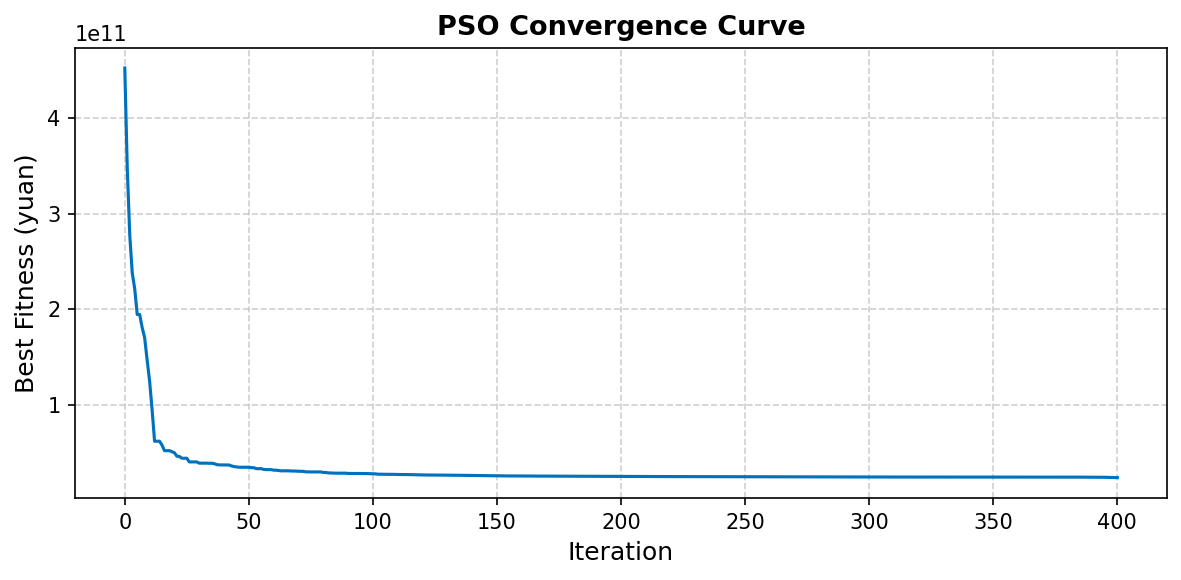
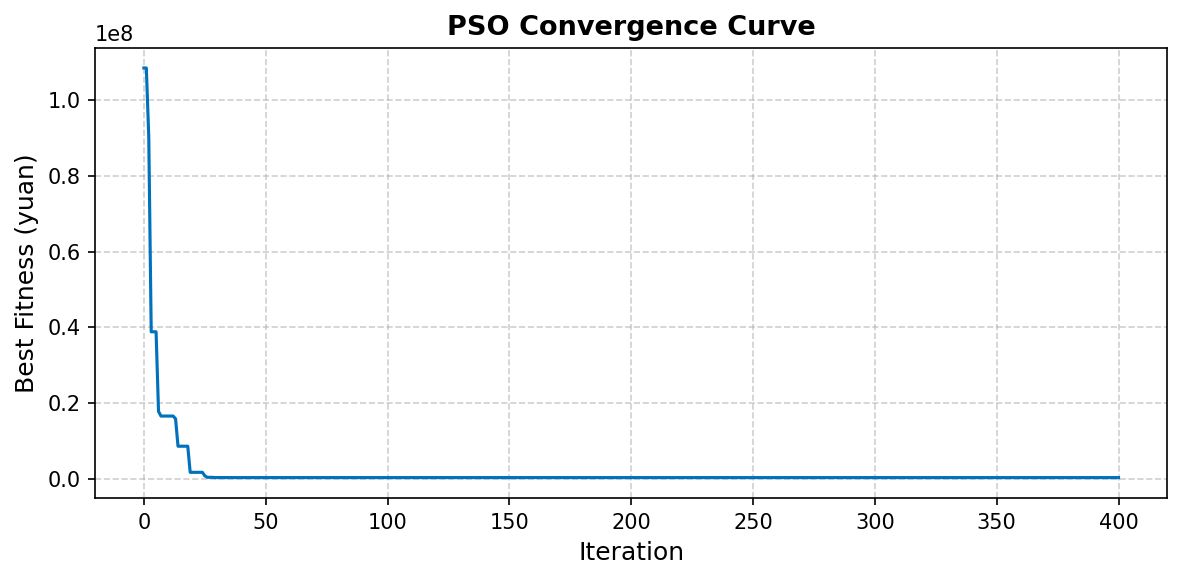
fix: PSO now matches MILP by fixing balance repair and adding feasibility-guided warm start
Agent-Logs-Url: https://github.com/zhouwenqing121-jpg/dianlirengong/sessions/00c5c149-e882-40f2-b688-72ed0c0e99e6

diff --git a/realistic_dispatch_simulator.py b/realistic_dispatch_simulator.py
@@ -110,39 +110,43 @@ WIND_OM_PRICE       = 18.0   # 风电运维单价 (元/MWh)
 CURTAILMENT_PRICE   = 300.0  # 弃风惩罚单价 (元/MWh)
 WIND_W2_RATIO       = 0.5    # W2 最大可用容量占 P_WY 的比例
 
-# 惩罚系数按约束重要性分层：
-#   PENALTY_BALANCE(1e8) > PENALTY_RAMP(1e7) > PENALTY_FLOW(1e5)
-# 功率平衡是硬约束（违反会使潮流无解），优先级最高；
-# 爬坡约束影响运行安全，次之；支路越限属于软约束，惩罚较低。
-PENALTY_BALANCE  = 1e8   # 全网功率不平衡惩罚系数（硬约束）
-PENALTY_RAMP     = 1e7   # 爬坡越限惩罚系数（安全约束）
-PENALTY_FLOW     = 1e5   # 支路潮流越限惩罚系数（软约束）
-FLOW_LIMIT       = 600.0 # 支路潮流上限 (MW)
+# 惩罚系数
+# G1 为平衡节点（与MATLAB中的松弛母线对应），由功率平衡方程直接推算；
+# PSO 每步迭代后执行 G2 修复，保证 G1 始终在机组出力范围内，
+# 因此 fitness 中无需对 G1 越界施加惩罚。
+# 爬坡约束和支路越限用惩罚处理。
+PENALTY_RAMP = 1e7   # 爬坡越限惩罚系数
+PENALTY_FLOW = 1e5   # 支路潮流越限惩罚系数（软约束）
+FLOW_LIMIT   = 600.0 # 支路潮流上限 (MW)
 
-# 预计算各时刻的上下界向量（避免循环内重复创建）
-_lb = np.empty(4 * T)
-_ub = np.empty(4 * T)
+# 决策变量布局: [P_G2(0..T-1), P_W1(0..T-1), P_W2(0..T-1)]，共 3*T = 72 个变量。
+# G1 不作为决策变量，而是由每个时刻的功率平衡方程推算：
+#   P_G1[t] = PLoad[t] - P_G2[t] - P_W1[t] - P_W2[t]
+# 这与MATLAB模型中 Bus 1 为松弛母线（取剩余功率）的设定完全一致。
+_lb = np.empty(3 * T)
+_ub = np.empty(3 * T)
 for _t in range(T):
-    _lb[_t]          = P_GMIN[0]
-    _ub[_t]          = P_GMAX[0]
-    _lb[T   + _t]    = P_GMIN[1]
-    _ub[T   + _t]    = P_GMAX[1]
-    _lb[2*T + _t]    = 0.0
-    _ub[2*T + _t]    = P_WY[_t]
-    _lb[3*T + _t]    = 0.0
-    _ub[3*T + _t]    = P_WY[_t] * WIND_W2_RATIO
+    _lb[_t]          = P_GMIN[1]              # P_G2 下限
+    _ub[_t]          = P_GMAX[1]              # P_G2 上限
+    _lb[T   + _t]    = 0.0                    # P_W1 下限
+    _ub[T   + _t]    = P_WY[_t]              # P_W1 上限
+    _lb[2*T + _t]    = 0.0                    # P_W2 下限
+    _ub[2*T + _t]    = P_WY[_t] * WIND_W2_RATIO  # P_W2 上限
 
 
 def fitness(x):
     """
     计算粒子的适应度（目标值 + 惩罚项）。
-    x 布局: [P_G1(0..T-1), P_G2(0..T-1), P_net1(0..T-1), P_net2(0..T-1)]
-    共 4*T = 96 个变量。
+    x 布局: [P_G2(0..T-1), P_W1(0..T-1), P_W2(0..T-1)]，共 3*T = 72 个变量。
+    G1 由功率平衡方程推算（松弛母线），保证全网功率平衡。
+    PSO 每步执行修复，G1 始终在机组出力范围内，此处无需 G1 越界惩罚。
     """
-    P_G1   = x[0:T]
-    P_G2   = x[T:2*T]
-    P_net1 = x[2*T:3*T]
-    P_net2 = x[3*T:4*T]
+    P_G2   = x[0:T]
+    P_net1 = x[T:2*T]
+    P_net2 = x[2*T:3*T]
+
+    # ---- G1 由平衡方程推算（松弛母线）----
+    P_G1 = np.clip(PLoad - P_G2 - P_net1 - P_net2, P_GMIN[0], P_GMAX[0])
 
     # ---- 目标成本 ----
     # 火电燃煤成本
@@ -168,32 +172,97 @@ def fitness(x):
         (ramp_up2**2).sum() + (ramp_down2**2).sum()
     )
 
-    # ---- 惩罚：节点功率平衡 & 支路越限 ----
-    pen_balance = 0.0
-    pen_flow    = 0.0
-
+    # ---- 惩罚：支路越限（DC潮流）----
+    pen_flow = 0.0
     for t in range(T):
-        # 计算各节点净注入 (MW)
         P_inj = -P_Load_Node[:, t].copy()
         P_inj[0]  += P_G1[t]    # G1 在 bus 1 (index 0)
         P_inj[4]  += P_G2[t]    # G2 在 bus 5 (index 4)
         P_inj[7]  += P_net1[t]  # W1 在 bus 8 (index 7)
         P_inj[10] += P_net2[t]  # W2 在 bus 11 (index 10)
 
-        # 全网功率不平衡惩罚
-        bal_err = P_inj.sum()
-        pen_balance += PENALTY_BALANCE * bal_err**2
-
-        # DC潮流与支路越限惩罚
         theta  = solve_dc_pf(P_inj)
         flows  = compute_branch_flows(theta)
         viol   = np.maximum(0.0, np.abs(flows) - FLOW_LIMIT)
         pen_flow += PENALTY_FLOW * (viol**2).sum()
 
-    return obj + pen_ramp + pen_balance + pen_flow
+    return obj + pen_ramp + pen_flow
 
 
 # ================== 6. 粒子群优化 (PSO) ==================
+
+def _repair_feasibility(pos):
+    """
+    修复粒子位置，保证每个时刻功率严格平衡且所有变量在可行域内：
+      G1 = PLoad − G2 − W1 − W2 ∈ [P_GMIN[0], P_GMAX[0]]
+      G2 ∈ [P_GMIN[1], P_GMAX[1]]
+      W1 ∈ [0, P_WY[t]], W2 ∈ [0, P_WY[t]*0.5]
+
+    修复规则（与MATLAB中松弛母线 Bus 1 的物理含义一致）：
+      - G1 偏高 (>30MW)：先增大 G2 吸收，若 G2 已达上限则弃风 (W2→W1)
+      - G1 偏低 (<5MW)：先减小 G2 释放，若 G2 已达下限则弃风 (W2→W1)
+    所有情况下 G1 + G2 + W1 + W2 = PLoad 精确成立。
+
+    pos 形状: (n_particles, 3*T)，列布局 [G2(0..T-1), W1(0..T-1), W2(0..T-1)]。
+    """
+    for t in range(T):
+        g2 = np.clip(pos[:, t],           P_GMIN[1], P_GMAX[1])
+        w1 = np.clip(pos[:, T   + t],     0.0,       P_WY[t])
+        w2 = np.clip(pos[:, 2*T + t],     0.0,       P_WY[t] * WIND_W2_RATIO)
+
+        g1 = PLoad[t] - g2 - w1 - w2
+
+        # ---- G1 超上限：需要增加 G2 或弃风 ----
+        over = np.maximum(0.0, g1 - P_GMAX[0])
+        g2_inc = np.minimum(over, P_GMAX[1] - g2)
+        g2  += g2_inc
+        over -= g2_inc
+        w2_cut = np.minimum(w2, over)
+        w2  -= w2_cut
+        over -= w2_cut
+        w1  -= np.minimum(w1, over)
+
+        # ---- G1 低于下限：需要减少 G2 或弃风 ----
+        g1 = PLoad[t] - g2 - w1 - w2          # 重新计算
+        under = np.maximum(0.0, P_GMIN[0] - g1)
+        g2_dec = np.minimum(under, g2 - P_GMIN[1])
+        g2  -= g2_dec
+        under -= g2_dec
+        w2_cut2 = np.minimum(w2, under)
+        w2  -= w2_cut2
+        under -= w2_cut2
+        w1  -= np.minimum(w1, under)
+
+        pos[:, t]         = g2
+        pos[:, T   + t]   = w1
+        pos[:, 2*T + t]   = w2
+    return pos
+
+
+def _compute_warm_start():
+    """
+    计算热启动初始解：最大化风电利用率，G2 爬坡修复后剩余不平衡由 G1 承担。
+    策略：W1 = P_WY, W2 = P_WY*0.5（满发），G2 取 (PLoad-1.5*P_WY)/2
+          再对 G2 做爬坡修复（前向），最后用 _repair_feasibility 保证 G1 在界。
+    """
+    w1 = P_WY.copy()
+    w2 = P_WY * WIND_W2_RATIO
+    t_req = np.maximum(0.0, PLoad - w1 - w2)          # 所需火电总量
+    g2 = np.clip(t_req / 2.0, P_GMIN[1], P_GMAX[1])  # 两台机均分
+
+    # 前向爬坡修复 G2
+    for t in range(1, T):
+        delta = g2[t] - g2[t - 1]
+        if delta > R_U[1]:
+            g2[t] = g2[t - 1] + R_U[1]
+        elif delta < -R_D[1]:
+            g2[t] = g2[t - 1] - R_D[1]
+        g2[t] = np.clip(g2[t], P_GMIN[1], P_GMAX[1])
+
+    x = np.concatenate([g2, w1, w2]).reshape(1, -1)
+    x = _repair_feasibility(x)                                   # G1 越界时调整 G2
+    return x[0]
+
 
 def pso_dispatch(n_particles=80, max_iter=400, w=0.7298, c1=1.4962, c2=1.4962):
     """
@@ -209,10 +278,22 @@ def pso_dispatch(n_particles=80, max_iter=400, w=0.7298, c1=1.4962, c2=1.4962):
         gbest_val   : 全局最优适应度
         history     : 每代最优适应度记录
     """
-    n_var = 4 * T
+    n_var = 3 * T   # 决策变量: [P_G2, P_W1, P_W2]，G1 由平衡方程推算
 
     # --- 初始化位置与速度 ---
-    pos = _lb + np.random.rand(n_particles, n_var) * (_ub - _lb)
+    # 前 1/4 的粒子在"最大风电热启动解"附近均匀扰动，其余随机初始化，
+    # 以兼顾收敛速度（热启动）与搜索多样性（随机粒子）。
+    x_warm = _compute_warm_start()
+    n_warm = n_particles // 4
+    pos = np.empty((n_particles, n_var))
+    # 热启动粒子：在热启动解周围做小扰动
+    scale = 0.05 * (_ub - _lb)
+    pos[:n_warm] = x_warm + np.random.randn(n_warm, n_var) * scale
+    # 随机粒子
+    pos[n_warm:] = _lb + np.random.rand(n_particles - n_warm, n_var) * (_ub - _lb)
+    pos = np.clip(pos, _lb, _ub)
+    pos = _repair_feasibility(pos)                        # 确保初始粒子 G1 在界
+
     vel_range = 0.1 * (_ub - _lb)
     vel = -vel_range + 2.0 * np.random.rand(n_particles, n_var) * vel_range
 
@@ -240,8 +321,9 @@ def pso_dispatch(n_particles=80, max_iter=400, w=0.7298, c1=1.4962, c2=1.4962):
 
         pos = pos + vel
 
-        # 越界修复：截断到可行域
+        # 越界修复：先截断到各变量可行域，再修复 G2 使 G1 在界
         pos = np.clip(pos, _lb, _ub)
+        pos = _repair_feasibility(pos)
 
         # 评估并更新个体/全局最优
         for i in range(n_particles):
@@ -274,10 +356,11 @@ best_x, best_fitness, cost_history = pso_dispatch(
 )
 
 # 提取最优解
-Val_PG1   = best_x[0:T]
-Val_PG2   = best_x[T:2*T]
-Val_PW1   = best_x[2*T:3*T]
-Val_PW2   = best_x[3*T:4*T]
+Val_PG2   = best_x[0:T]
+Val_PW1   = best_x[T:2*T]
+Val_PW2   = best_x[2*T:3*T]
+# G1 由平衡方程推算（与MATLAB松弛母线一致）
+Val_PG1   = np.clip(PLoad - Val_PG2 - Val_PW1 - Val_PW2, P_GMIN[0], P_GMAX[0])
 
 # 分项成本
 Cost_Coal_Total  = (
